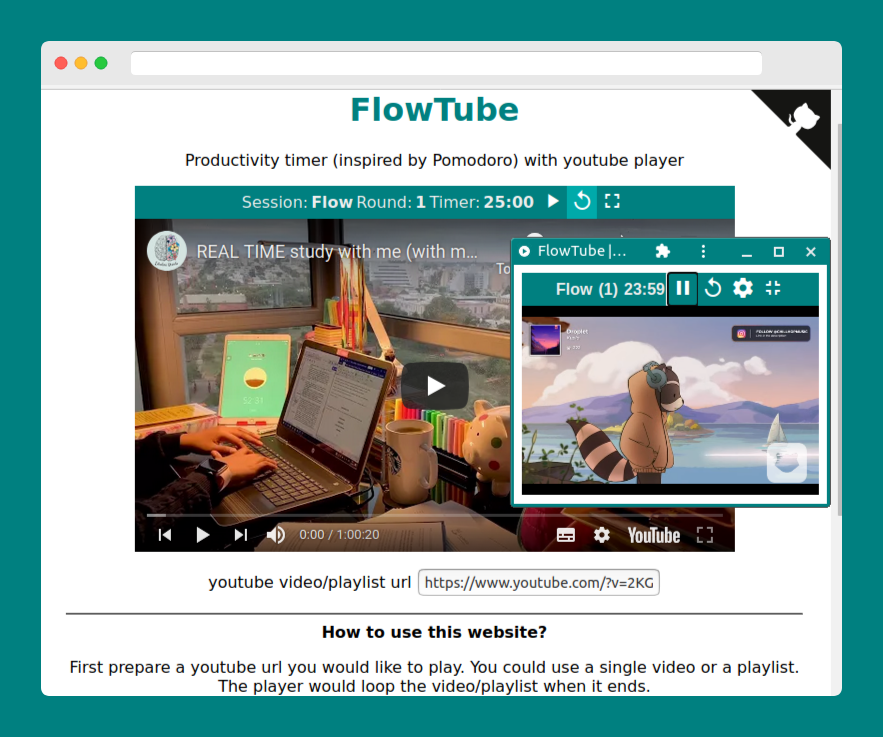
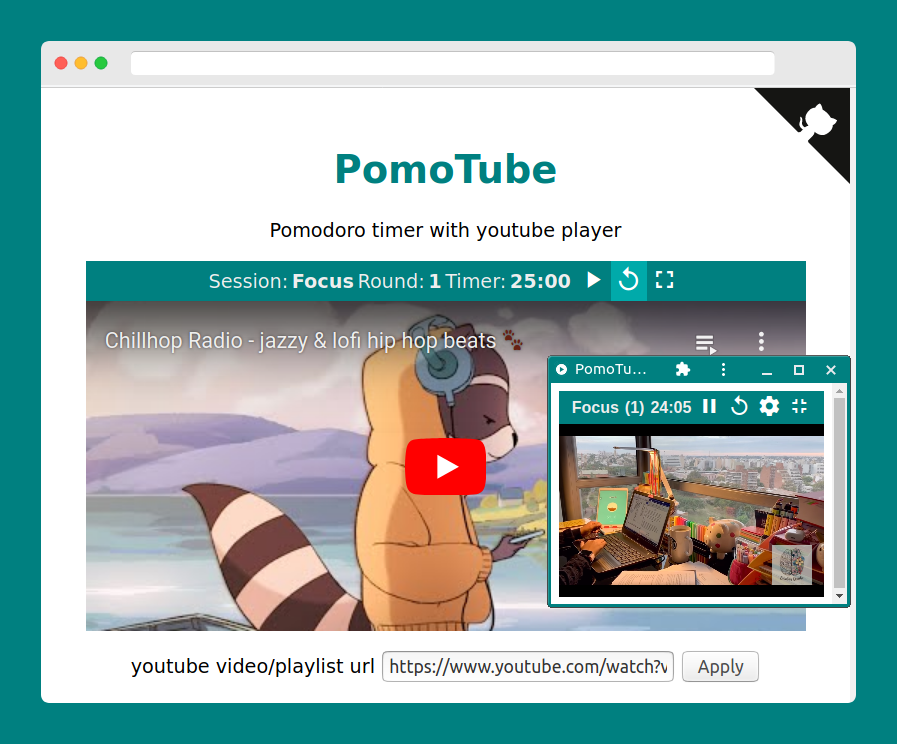
Edit readme & screenshot

diff --git a/README.md b/README.md
@@ -1,9 +1,9 @@
-FlowTube
+PomoTube
 ========
 
-Simple pomodoro based timer with youtube player 
+Simple pomodoro timer with youtube player 
 
-![FlowTube Screenshot](images/screenshot.png?raw=true "FlowTube Screenshot")
+![PomoTube Screenshot](images/screenshot.png?raw=true "PomoTube Screenshot")
 
 Powered by [AlpineJS](https://github.com/alpinejs/alpine/)
 Icons by [Google's Material Icons](https://material.io/resources/icons/)
